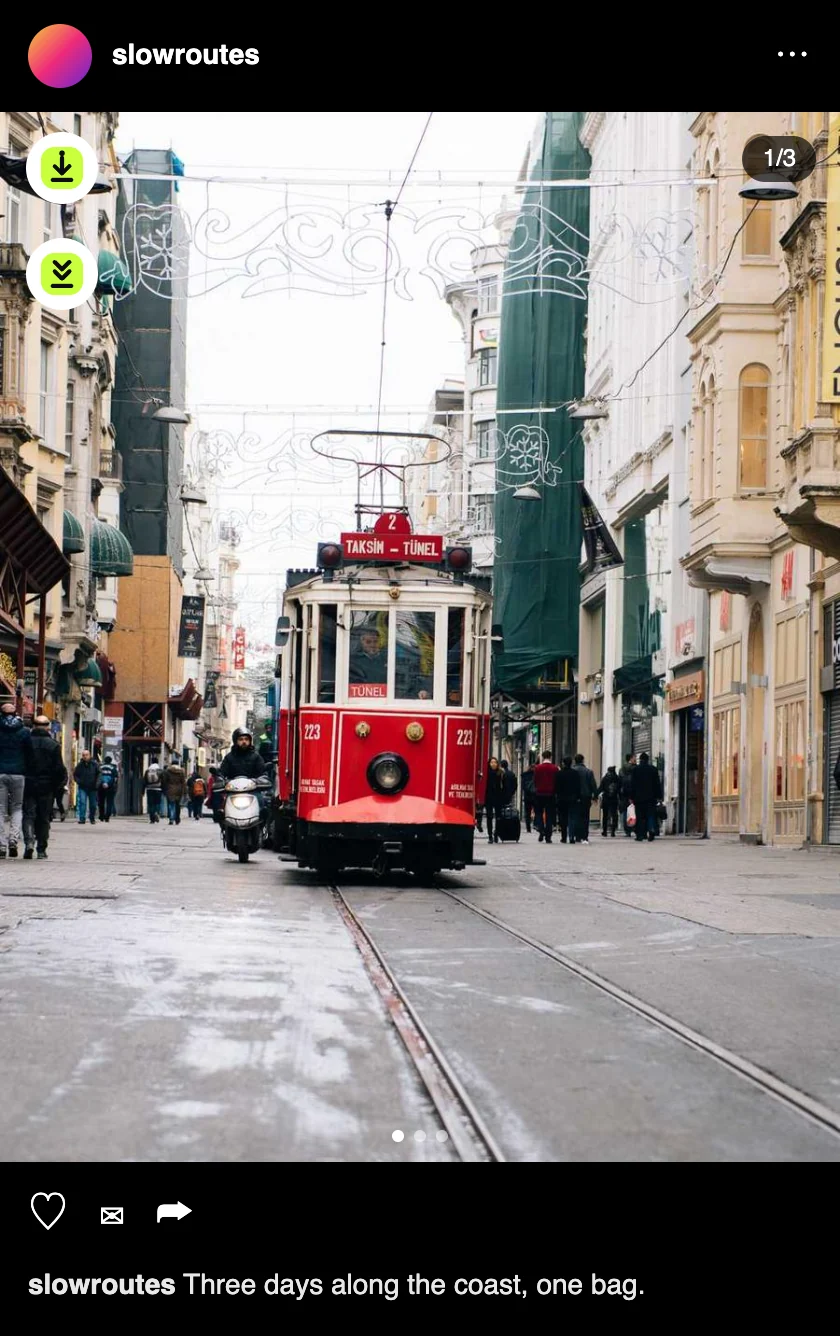
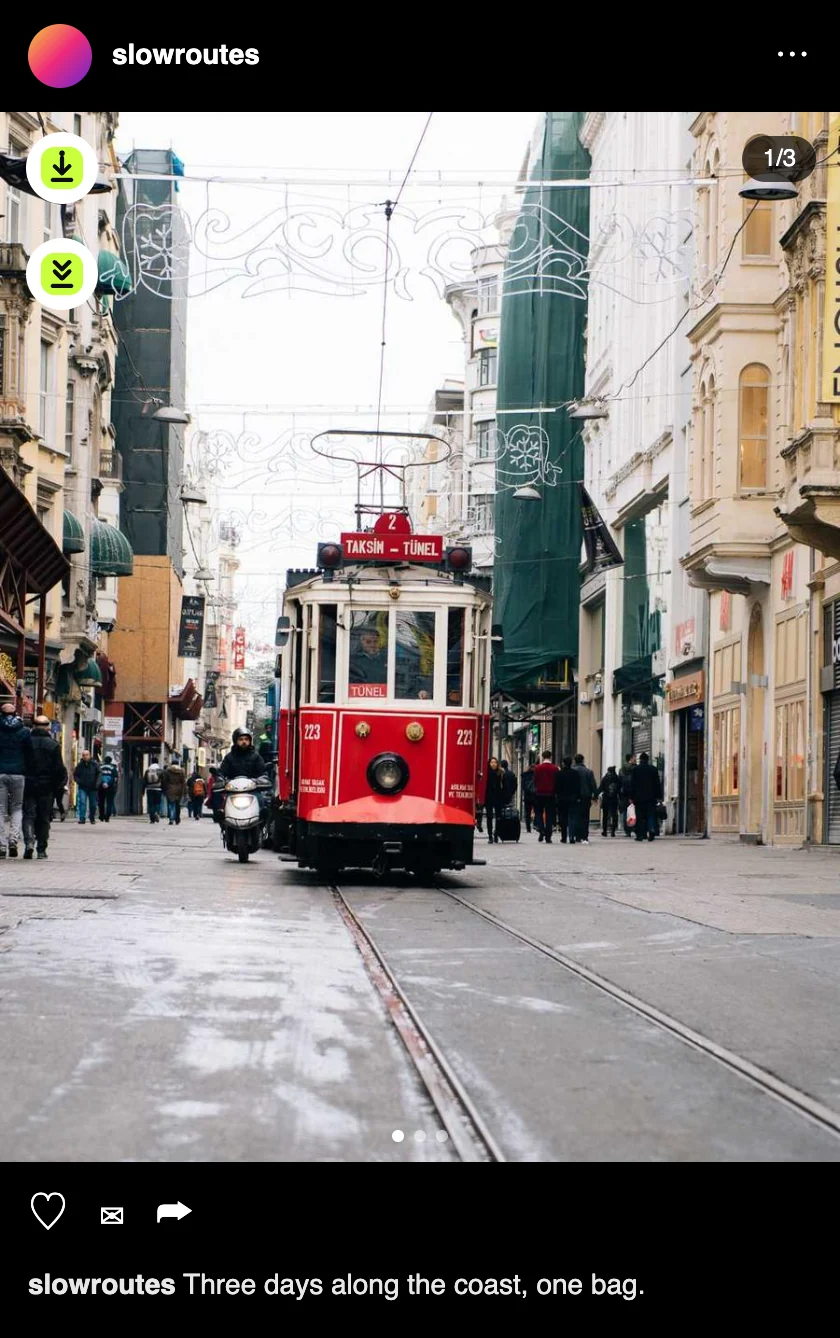
feat(site): panel card replaces the profile dialog, capture tooling follows
Screenshots are retaken from the real UI. The capture tool used a fractional clip origin that
made Chromium render the page at half size; whole-pixel clips fix it.

diff --git a/site/index.html b/site/index.html
@@ -10,7 +10,7 @@
 <meta property="og:type" content="website">
 <meta property="og:title" content="Decima">
 <meta property="og:description" content="Pick any number of files. Decima posts them to Discord ten at a time.">
-<meta property="og:image" content="https://decima.kgb-record.cloud/assets/shots/panel-queue.webp?v=b16c382a">
+<meta property="og:image" content="https://decima.kgb-record.cloud/assets/shots/panel-queue.webp?v=1dd8834a">
 <meta name="twitter:card" content="summary_large_image">
 <link rel="icon" href="favicon.ico?v=a632b4de" sizes="16x16 32x32 48x48">
 <link rel="icon" type="image/png" sizes="32x32" href="assets/favicon-32.png?v=041b18ae">
@@ -27,7 +27,7 @@
     }
   })();
 </script>
-<link rel="stylesheet" href="styles.css?v=51c907e6">
+<link rel="stylesheet" href="styles.css?v=d1a40a7a">
 </head>
 <body>
 <div class="progress" aria-hidden="true"></div>
@@ -62,7 +62,7 @@
     </div>
     <figure class="hero-shot" aria-label="Decima side panel with a queue of 22 files split into three messages">
       <div class="hero-par"><div class="tilt">
-        <img src="assets/shots/panel-queue.webp?v=b16c382a" alt="Decima side panel: target channel release-assets, 22 files queued in 3 messages" width="400" height="780" fetchpriority="high">
+        <img src="assets/shots/panel-queue.webp?v=1dd8834a" alt="Decima side panel: target channel release-assets, 22 files queued in 3 messages" width="400" height="780" fetchpriority="high">
       </div></div>
     </figure>
   </div>
@@ -89,17 +89,17 @@
       <div class="flow-rail" aria-hidden="true"><i></i><b></b><b></b><b></b></div>
       <ol class="flow-steps">
         <li>
-          <figure class="li-shot"><img src="assets/shots/panel-target.webp?v=0b2c93f8" alt="Side panel showing the active server and channel with a Can send badge" width="400" height="780" loading="lazy"></figure>
+          <figure class="li-shot"><img src="assets/shots/panel-target.webp?v=2ac31083" alt="Side panel showing the active server and channel with a Can send badge" width="400" height="780" loading="lazy"></figure>
           <h3>It knows where you are</h3>
           <p>Server and channel names appear before anything is sent. If you switch channels mid-run, <b class="nm">Decima</b> stops.</p>
         </li>
         <li>
-          <figure class="li-shot"><img src="assets/shots/panel-queue.webp?v=b16c382a" alt="Queue of 22 files grouped into messages of ten" width="400" height="780" loading="lazy"></figure>
+          <figure class="li-shot"><img src="assets/shots/panel-queue.webp?v=1dd8834a" alt="Queue of 22 files grouped into messages of ten" width="400" height="780" loading="lazy"></figure>
           <h3>Files are grouped for you</h3>
           <p>Add as many as you like. Each group of ten is shown as its own message, and oversize files are skipped before they fail.</p>
         </li>
         <li>
-          <figure class="li-shot"><img src="assets/shots/panel-run.webp?v=14288050" alt="A run in progress at ten of 22 files with Pause and Stop" width="400" height="780" loading="lazy"></figure>
+          <figure class="li-shot"><img src="assets/shots/panel-run.webp?v=c4bcaa01" alt="A run in progress at ten of 22 files with Pause and Stop" width="400" height="780" loading="lazy"></figure>
           <h3>Pause, resume or stop</h3>
           <p>Progress, a live log and a delay between messages keep the run calm. Stop any time.</p>
         </li>
@@ -165,7 +165,7 @@
       <div class="eph-intro">
         <img class="brand-mark" data-rv src="assets/ephemera-logo.svg?v=eb187f87" alt="" width="56" height="56">
         <h2 data-words>Stories vanish. <b class="nm">Ephemera</b> keeps them.</h2>
-        <p class="sub" data-rv>A round download button right on the page, on Instagram and Facebook. WhatsApp Web statuses save on demand.</p>
+        <p class="sub" data-rv>A round download button right on the page, on Instagram and Facebook. Whole profiles download from the side panel. WhatsApp Web statuses save on demand.</p>
       </div>
 
       <figure class="ec ec-tall" data-rv>
@@ -173,7 +173,7 @@
         <figcaption><b>Instagram stories.</b> One tap on the corner button saves the story you are watching.</figcaption>
       </figure>
       <figure class="ec ec-tall" data-rv>
-        <div class="frame" style="--ar:840/1492"><img src="assets/shots/ig-post.webp?v=31843a57" alt="Instagram carousel post with a single download button and a download all button" width="840" height="1336" loading="lazy"></div>
+        <div class="frame" style="--ar:840/1492"><img src="assets/shots/ig-post.webp?v=4863ec89" alt="Instagram carousel post with a single download button and a download all button" width="840" height="1336" loading="lazy"></div>
         <figcaption><b>Instagram posts.</b> Photos, videos and reels. On a carousel, a second button saves every slide.</figcaption>
       </figure>
       <figure class="ec ec-tall" data-rv>
@@ -182,13 +182,10 @@
       </figure>
 
       <figure class="ec ec-wide" data-rv>
-        <div class="frame" style="--ar:1040/856"><img src="assets/shots/fb-feed.webp?v=ada891e3" alt="Facebook feed video with a download button on the top-left of the video" width="1040" height="856" loading="lazy"></div>
+        <div class="frame" style="--ar:1040/856"><img src="assets/shots/fb-feed.webp?v=266f5381" alt="Facebook feed video with a download button on the top-left of the video" width="1040" height="856" loading="lazy"></div>
         <figcaption><b>Facebook videos and albums.</b> Hover a video in your feed and the button appears on it.</figcaption>
       </figure>
-      <figure class="ec ec-wide" data-rv>
-        <div class="frame" style="--ar:1120/960"><img src="assets/shots/ig-profile.webp?v=a07269ab" alt="Instagram profile with a Download All button under the bio" width="1120" height="960" loading="lazy"></div>
-        <figcaption><b>Whole profiles.</b> A Download All button under the bio opens the range and filter dialog.</figcaption>
-      </figure>
+
     </div>
   </div>
 </section>
@@ -198,6 +195,7 @@
     <div class="pick-copy">
       <h2 data-words>Pick what to take.</h2>
       <ul class="pick-list">
+        <li data-rv><b>Open a profile, open the side panel.</b> The card shows how many posts the account has and downloads right from there.</li>
         <li data-rv><b>Range, top likes, top comments.</b> Choose a range of posts, or only the few with the most likes.</li>
         <li data-rv><b>Likes, comments and date filters</b> narrow it down before anything downloads.</li>
         <li data-rv><b>One ZIP</b> with sensible file names, saved through Chrome.</li>
@@ -205,15 +203,15 @@
       </ul>
     </div>
     <div class="pick-shots" data-rv>
-      <img class="pk-a" src="assets/shots/dialog-profile.webp?v=1511d07d" alt="Dialog for downloading all posts of an Instagram profile with range and filters" width="1032" height="2024" loading="lazy">
-      <img class="pk-b" src="assets/shots/panel-ephemera.webp?v=2c391e29" alt="Ephemera tab with a Download from this page button" width="800" height="1560" loading="lazy">
+      <img class="pk-a" src="assets/shots/panel-profile.webp?v=fcd93fe6" alt="Side panel card for downloading all posts of an Instagram profile, with a range, top picks and filters" width="800" height="1722" loading="lazy">
+      <img class="pk-b" src="assets/shots/panel-ephemera.webp?v=6e9d4f73" alt="Ephemera tab on a story page with a Download from this page button" width="800" height="1560" loading="lazy">
     </div>
   </div>
 </section>
 
 <section class="popup-sec">
   <div class="wrap popup-in">
-    <img data-rv src="assets/shots/popup.webp?v=20d29fc2" alt="Decima toolbar popup showing the target channel, quick settings and a save button" width="680" height="840" loading="lazy">
+    <img data-rv src="assets/shots/popup.webp?v=1915292d" alt="Decima toolbar popup showing the target channel, quick settings and a save button" width="680" height="840" loading="lazy">
     <div>
       <h2 data-words>The popup is the short version.</h2>
       <p class="sub" data-rv>Open it to check the target, change files per message or the delay, or save the story on the page you are looking at.</p>

diff --git a/tools/site/mock-pages.html b/tools/site/mock-pages.html
@@ -52,19 +52,6 @@
   .fb-feed .react{display:flex;gap:18px;padding:12px 16px;color:#b0b3b8;border-top:1px solid #3e4042;margin-top:0}
 
   /* ---- Instagram profile header ---- */
-  .ig-prof{width:560px;background:#000;padding:28px 28px 24px}
-  .ig-prof .row{display:flex;gap:28px;align-items:center}
-  .ig-prof .av{width:96px;height:96px;border-radius:50%;background:linear-gradient(135deg,#f9ce34,#ee2a7b,#6228d7);padding:3px}
-  .ig-prof .av i{display:block;width:100%;height:100%;border-radius:50%;background:url(__PHOTOS__/p3.jpg) center/cover;border:3px solid #000}
-  .ig-prof h2{margin:0 0 10px;font:400 20px -apple-system,"Segoe UI",sans-serif}
-  .ig-prof .stats{display:flex;gap:24px;color:#e8e8e8}.ig-prof .stats b{color:#fff}
-  .ig-prof .btns{display:flex;gap:8px;margin-top:14px}
-  .ig-prof .btns span{background:#363636;border-radius:8px;padding:7px 18px;font-weight:600}
-  .ig-prof .btns span.f{background:#0095f6}
-  .ig-prof .bio{margin-top:16px;color:#e8e8e8}
-  .ig-prof header{display:block}
-  .ig-prof .grid{display:grid;grid-template-columns:repeat(3,1fr);gap:4px;margin:22px -28px -24px}
-  .ig-prof .grid i{aspect-ratio:1;background-size:cover;background-position:center;display:block}
 </style></head><body>
 
 <div id="ig-story" class="stage ig-story">
@@ -108,20 +95,5 @@
   <div class="react"><span>Like</span><span>Comment</span><span>Share</span></div>
 </div>
 
-<div id="ig-prof" class="stage ig-prof">
-  <header>
-    <div class="row">
-      <div class="av"><i></i></div>
-      <div>
-        <h2>slowroutes</h2>
-        <div class="stats"><span><b>128</b> posts</span><span><b>14.2K</b> followers</span><span><b>212</b> following</span></div>
-      </div>
-    </div>
-    <div class="btns"><span class="f">Follow</span><span>Message</span></div>
-    <div class="bio">Slow travel notes and film photos.<br>Collabs: hello@slowroutes.example</div>
-    <div class="eph_toolkit_profile_download_btn" style="cursor:pointer;display:flex;align-items:center;padding:8px 16px;background-color:#0095f6;color:white;border-radius:4px;margin-top:12px;font-weight:bold;width:max-content"><span class="eph_toolkit_icon"></span><span class="eph_toolkit_text">Download All</span></div>
-  </header>
-  <div class="grid"><i style="background-image:url(__PHOTOS__/p1.jpg)"></i><i style="background-image:url(__PHOTOS__/p2.jpg)"></i><i style="background-image:url(__PHOTOS__/p3.jpg)"></i></div>
-</div>
 
 </body></html>

diff --git a/site/styles.css b/site/styles.css
@@ -166,14 +166,14 @@ input[type=range]:hover::-webkit-slider-thumb{transform:scale(1.18)}
 .cell-d p{margin-top:10px;font-size:.95rem;color:var(--ink-2)}
 .cell b small{font:500 .9rem/1 var(--mono);letter-spacing:0;margin-left:4px;opacity:.7}
 
-/* ephemera: three tall shots and the intro on top, two wide shots below */
+/* ephemera: three tall shots and the intro on top, one wide shot below */
 .eph{padding:clamp(70px,9vw,140px) 0;border-top:1px solid var(--line)}
 .eph-grid{display:grid;grid-template-columns:repeat(12,minmax(0,1fr));column-gap:clamp(16px,2.2vw,32px);row-gap:clamp(36px,5vw,68px);align-items:start}
 .eph-intro{grid-column:1/4;position:sticky;top:110px}
 .eph-intro h2{font-size:clamp(1.9rem,3.4vw,3rem);max-width:12ch}
 .ec{margin:0}
 .ec-tall{grid-column:span 3}
-.ec-wide{grid-column:span 6}
+.ec-wide{grid-column:4/-1}
 .ec .frame{position:relative;overflow:hidden;border-radius:var(--r-img);border:1px solid var(--line-2);background:#000;aspect-ratio:var(--ar);transition:border-color .4s,transform .7s var(--ease)}
 .ec-tall .frame{aspect-ratio:3/5}
 .ec-wide .frame{aspect-ratio:7/6}
@@ -228,7 +228,7 @@ input[type=range]:hover::-webkit-slider-thumb{transform:scale(1.18)}
   .eph-intro{grid-column:1/-1;position:static}
   .eph-intro h2{max-width:16ch}
   .ec-tall{grid-column:span 4}
-  .ec-wide{grid-column:span 6}
+  .ec-wide{grid-column:1/-1}
   .hero-in{grid-template-columns:1fr;gap:34px}
   .hero-shot{justify-self:start;width:min(100%,380px)}
   .pick-in,.popup-in{grid-template-columns:1fr}

diff --git a/README.md b/README.md
@@ -22,7 +22,8 @@ Pick 200 files once; the extension posts them as 20 consecutive messages while y
 
 Decima also includes a story/media downloader for **Instagram**, **Facebook** and **WhatsApp Web** — a native part of the extension, not a separate add-on.
 
-- Download buttons are injected on Instagram and Facebook pages (stories, posts, reels, videos, albums, profile bulk download as ZIP).
+- Download buttons are injected on Instagram and Facebook pages (stories, posts, reels, videos, albums).
+- **Whole Instagram profiles** download as one ZIP from the side panel: open a profile, open the Ephemera tab, pick a range, the most liked or most commented posts, and likes, comments or date filters.
 - From the toolbar popup or the side panel's **Ephemera** tab, download the story/status on the current tab.
 - Files are saved with Chrome's downloads API. Everything runs locally, with no telemetry.
 
@@ -30,7 +31,7 @@ Decima also includes a story/media downloader for **Instagram**, **Facebook** an
 
 1. **Detect** — content scripts on Instagram and Facebook observe the page and inject download buttons on stories, posts, reels, videos and albums. WhatsApp Web statuses are handled on demand.
 2. **Find the media** — on Instagram, the script calls the web API with the user's own session (CSRF / `fb_dtsg` token) to resolve original story and post files; story videos are read from the player's React fiber in the page's main world. On Facebook, video URLs are harvested from the DOM, `performance` entries and GraphQL responses.
-3. **Trigger** — page buttons, the toolbar popup or the side panel's Ephemera tab send a message to the service worker, which injects the matching on-demand script into the active tab with `chrome.scripting`.
+3. **Trigger** — page buttons, the toolbar popup or the side panel's Ephemera tab send a message to the service worker (profile downloads talk to the page directly: the panel asks it for the post count, then starts the run and shows its progress), which injects the matching on-demand script into the active tab with `chrome.scripting`.
 4. **Download** — the service worker saves files through `chrome.downloads`, names them by username and post, and falls back to fetch → blob → data URL when a direct link is refused. Profile bulk downloads are packed into a ZIP with JSZip.
 
 ```mermaid
